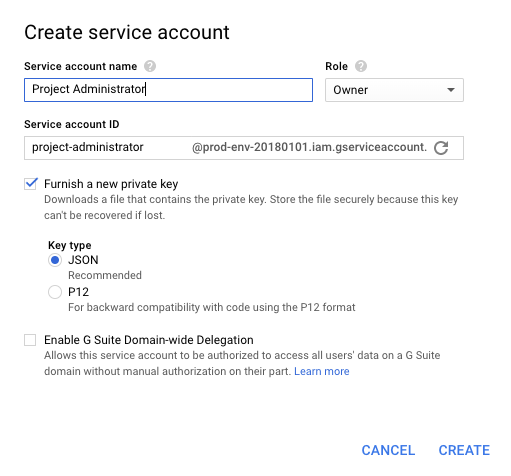
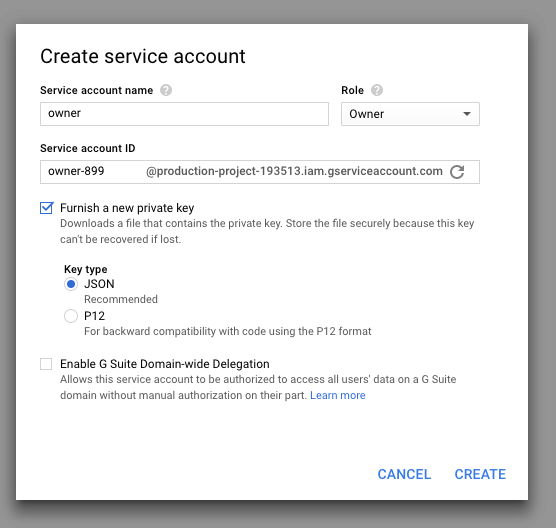
Improve setup article for docs

diff --git a/_docs/setup/gcp-gke.md b/_docs/setup/gcp-gke.md
@@ -1,4 +1,4 @@
-# Setup Exekube with Google Cloud and GKE
+# Setup an Exekube project on Google Cloud Platform
 
 ## Requirements starting from zero
 
@@ -21,13 +21,13 @@
     alias xk=". .env && docker-compose run --rm exekube"
     ```
 
-3. If you don't have one, create a [Google Account](https://console.cloud.google.com/). Then, create a new Google Cloud Platform [Project](https://console.cloud.google.com).
+3. If you don't already have one, create a [Google Account](https://console.cloud.google.com/). Then, create a new [GCP Project](https://console.cloud.google.com).
 
     | Project name | Project ID |
     | --- | --- |
     | Production Project | production-project-20180101 |
 
-4. Rename `.env.example` file in repo root to `.env`. Set the `TF_VAR_gcp_project` variable to the value from previous step.
+4. Rename `.env.example` file in repo root to `.env` and set the `TF_VAR_gcp_project` variable to the value from previous step.
 
     ```bash
     mv .env.example .env
@@ -36,26 +36,30 @@
     ```diff
     export XK_LIVE_DIR='/exekube/live/prod'
     - export TF_VAR_gcp_project='my-project-186217'
-    + export TF_VAR_gcp_project='prod-env-20180101'
+    + export TF_VAR_gcp_project='production-project-20180101'
     export TF_VAR_gcp_remote_state_bucket='project-terraform-state'
     ```
 
-5. [Create a service account](https://console.cloud.google.com/projectselector/iam-admin/serviceaccounts) and give it project owner permissions. Download the account JSON private key file to repo root directory and rename the file to `credentials.json`.
+5. [Create a service account](https://console.cloud.google.com/projectselector/iam-admin/serviceaccounts) and give it project owner permissions. A JSON private key file will be downloaded onto your machine, which you'll need to move into `live/prod` (the deployment environement directory) and rename the file to `owner-key.json`.
 
     ![Creating a GCP service account in GCP Console](img/gcp-sa.png)
+    ![JSON key in the deployment environment directory](img/dir.png)
 
-6. Run this command authenticate us to `gcloud`:
-
-    ```bash
-    xk gcloud auth activate-service-account --key-file live/prod/owner-key.json
-    ```
-
-7. Finally, create a Google Cloud Storage bucket (with versioning) for our Terraform remote state:
+6. Finally, use the JSON key to authenticate to the Google Cloud SDK and create a Google Cloud Storage bucket (with versioning) for our Terraform remote state:
 
     ```bash
-    xk gsutil mb \
+    xk gcloud auth activate-service-account \
+            --key-file live/prod/owner-key.json \
+    && xk gsutil mb \
             -p ${TF_VAR_gcp_project} \
             gs://${TF_VAR_gcp_remote_state_bucket} \
     && xk gsutil versioning set on \
             gs://${TF_VAR_gcp_remote_state_bucket}
     ```
+
+You deployment environment on the Google Cloud Platform is now ready!
+
+## Up next
+
+- [Tutorial: deploy an application on Kubernetes with Exekube](/usage/deploy-app)
+- [Guide to Exekube directory structure and framework usage](/usage/directory-structure)

diff --git a/_docs/index.md b/_docs/index.md
@@ -14,8 +14,8 @@ Exekube is an "Infrastructure as Code" modular framework for managing Kubernetes
 
 ## Usage
 
-- [Guide to Exekube directory structure and framework usage](/usage/directory-structure)
 - [Tutorial: deploy an application on Kubernetes with Exekube](/usage/deploy-app)
+- [Guide to Exekube directory structure and framework usage](/usage/directory-structure)
 
 ## Reference
 
